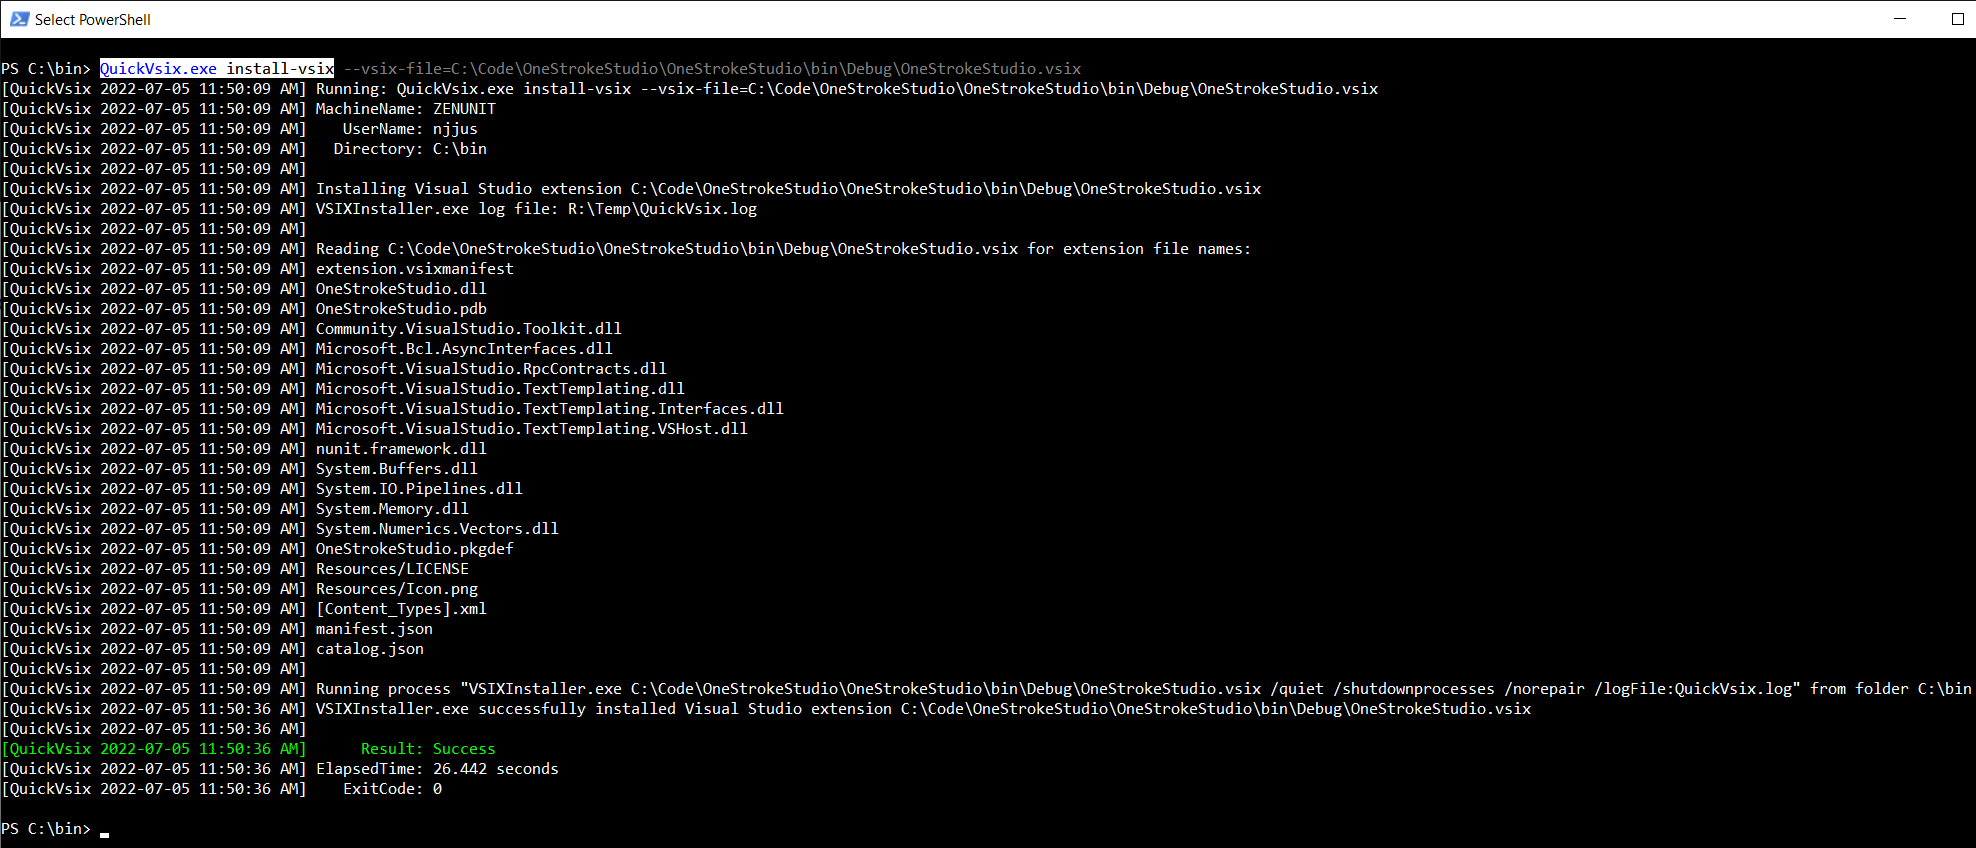
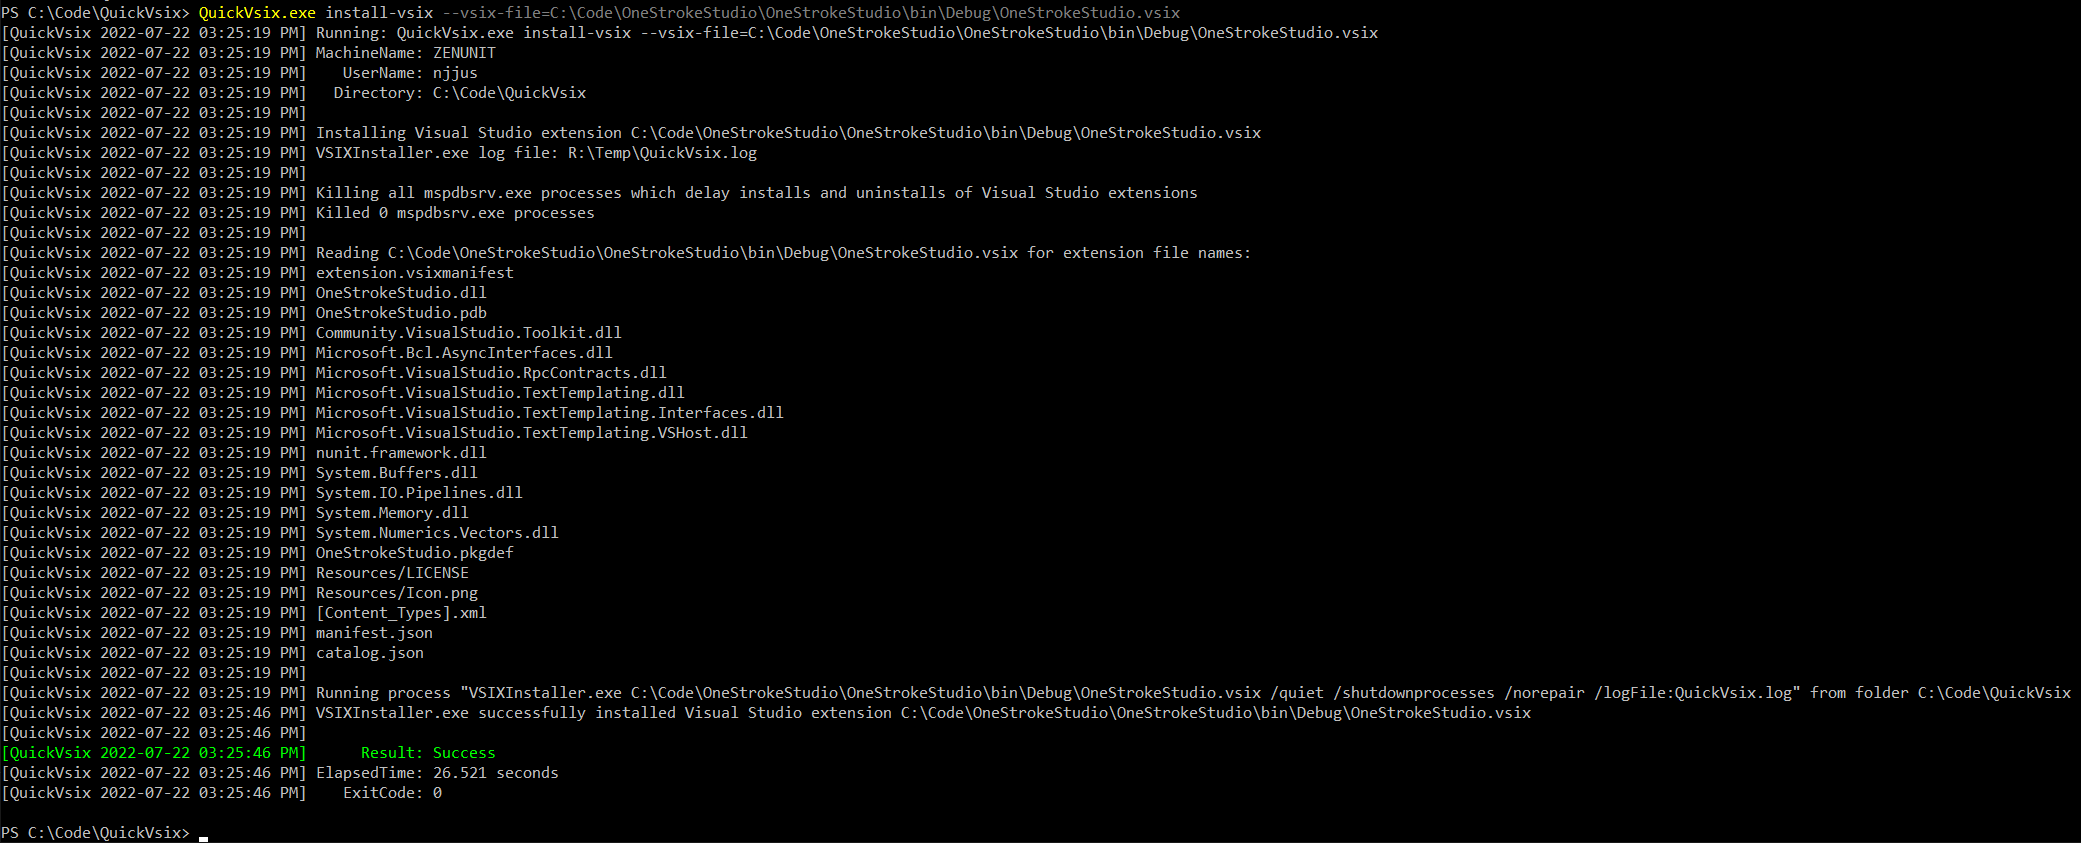
Bump version to 1.1.0

Changed region(s): [[0.0, 0.0, 1.0, 1.0]]

diff --git a/QuickVsixTests/CSharpUtils/Process/ProcessKillerTests.cs b/QuickVsixTests/CSharpUtils/Process/ProcessKillerTests.cs
@@ -48,7 +48,7 @@ public class ProcessKillerTests
       Called.NumberOfTimes(3, () => _consoleWriterMock.WriteProgramNameTimestampedLine(null));
       Called.Once(() => _processHelperMock.GetProcessesByName(processName)).Then(
       Called.Once(() => _readOnlyCollectionMakerMock.MakeReadOnlyCollection(mutableProcessesWithName))).Then(
-      Called.WasCalled(() => _consoleWriterMock.WriteProgramNameTimestampedLine($"Killing all mspdbsrv.exe processes which delay installs and uninstalls of .vsix extensions"))).Then(
+      Called.WasCalled(() => _consoleWriterMock.WriteProgramNameTimestampedLine($"Killing all mspdbsrv.exe processes which delay installs and uninstalls of Visual Studio extensions"))).Then(
       Called.Once(() => _linqHelperMock.ForEach(readOnlyProcessesWithName, _processKiller.DoKillProcess))).Then(
       Called.Once(() => _pluralizerMock.PluralizeIfNot1(readOnlyProcessesWithName.Count, "process", "processes"))).Then(
       Called.WasCalled(() => _consoleWriterMock.WriteProgramNameTimestampedLine($"Killed {readOnlyProcessesWithName.Count} mspdbsrv.exe {processOrProcesses}"))).Then(

diff --git a/QuickVsix/CSharpUtils/Process/ProcessKiller.cs b/QuickVsix/CSharpUtils/Process/ProcessKiller.cs
@@ -14,7 +14,7 @@ public class ProcessKiller
    {
       Process[] mutableProcessesWithName = _processHelper.GetProcessesByName(processName);
       ReadOnlyCollection<Process> readOnlyProcessesWithName = _readOnlyCollectionMaker.MakeReadOnlyCollection(mutableProcessesWithName);
-      _consoleWriter.WriteProgramNameTimestampedLine("Killing all mspdbsrv.exe processes which delay installs and uninstalls of .vsix extensions");
+      _consoleWriter.WriteProgramNameTimestampedLine("Killing all mspdbsrv.exe processes which delay installs and uninstalls of Visual Studio extensions");
       _linqHelper.ForEach(readOnlyProcessesWithName, DoKillProcess);
       string processOrProcesses = _pluralizer.PluralizeIfNot1(readOnlyProcessesWithName.Count, "process", "processes");
       _consoleWriter.WriteProgramNameTimestampedLine($"Killed {readOnlyProcessesWithName.Count} mspdbsrv.exe {processOrProcesses}");

diff --git a/README.md b/README.md
@@ -30,13 +30,19 @@ Usage:
 
 #### QuickVsix.exe console output for `install-vsix`:
 
+`QuickVsix.exe install-vsix --vsix-file=C:\Code\OneStrokeStudio\OneStrokeStudio\bin\Debug\OneStrokeStudio.vsix`
+
 ![install-vsix console output](Screenshots/InstallVsixConsoleOutput.png)
 
 #### QuickVsix.exe console output for `uninstall-vsix`:
 
+`QuickVsix.exe uninstall-vsix --vsix-file=C:\Code\OneStrokeStudio\OneStrokeStudio\bin\Debug\OneStrokeStudio.vsix`
+
 ![uninstall-vsix console output](Screenshots/UninstallVsixConsoleOutput.png)
 
 #### QuickVsix.exe console output for `reinstall-vsix`:
+
+`QuickVsix.exe reinstall-vsix --vsix-file=C:\Code\OneStrokeStudio\OneStrokeStudio\bin\Debug\OneStrokeStudio.vsix`
 
 ![reinstall-vsix console output](Screenshots/ReinstallVsixConsoleOutput.png)
 
